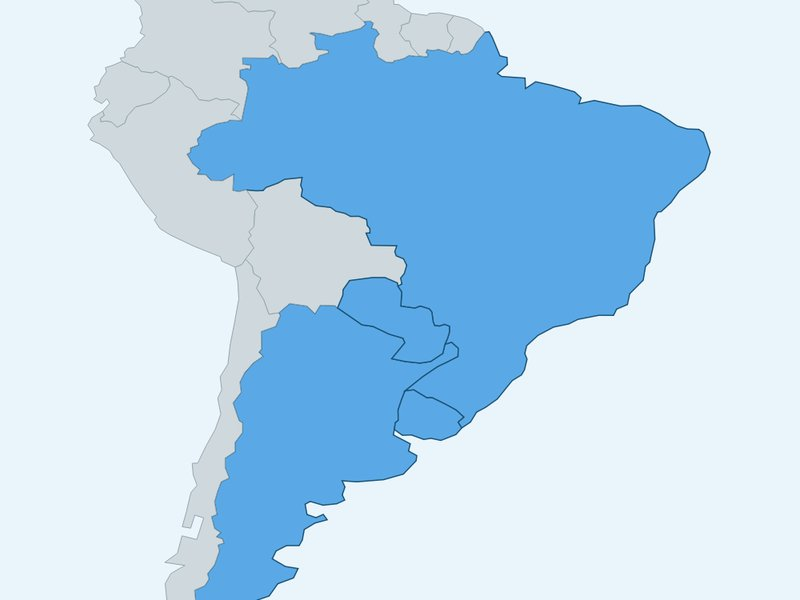
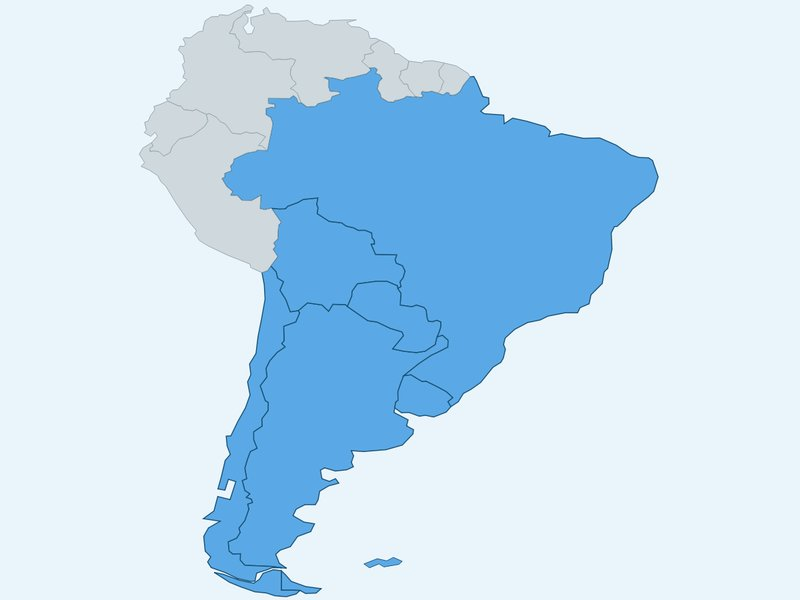
actualizac

Changed region(s): [[0.0938, 0.0, 0.9062, 1.0], [0.4375, 0.93, 0.5, 0.96]]

diff --git a/segundo ciclo/energias_renovables_mercosur/datos.js b/segundo ciclo/energias_renovables_mercosur/datos.js
@@ -449,9 +449,9 @@ var DATOS = {
       titulo: "Trivia: pregunta 6 de 10",
       preguntas: [
         {
-          pregunta: "¿Qué países integran el MERCOSUR en esta actividad?",
+          pregunta: "¿Qué países integran el MERCOSUR?",
           audioPregunta: "assets/audio/p19_q6.mp3",
-          opciones: ["Argentina, Brasil, Paraguay y Uruguay", "Argentina, Chile, Perú y Bolivia", "Brasil, Colombia, Ecuador y Venezuela"],
+          opciones: ["Argentina, Brasil, Paraguay, Uruguay, Chile y Bolivia", "Argentina, Chile, Perú y Bolivia", "Brasil, Colombia, Ecuador y Venezuela"],
           correcta: 0,
           audioOpciones: ["assets/audio/p19_q6o1.mp3", "assets/audio/p19_q6o2.mp3", "assets/audio/p19_q6o3.mp3"],
           imagen: "assets/images/mapa_mercosur_trivia.jpg"

diff --git a/segundo ciclo/energias_renovables_mercosur/index.html b/segundo ciclo/energias_renovables_mercosur/index.html
@@ -428,6 +428,8 @@
   .pais-clickeable.seleccionado { fill: #f5b301; }
   .pais-clickeable.completado { fill: var(--verde-ok); }
   .pais-otro { fill: #cfd8dc; stroke: #90a4ae; stroke-width: 1; }
+  #pais-FLK { fill: var(--ocre-claro); stroke: var(--ocre); stroke-width: 1; pointer-events: none; transition: fill .2s; }
+  #pais-FLK.completado { fill: var(--verde-ok); }
   .mapa-panel-info {
     background: #fff; border-radius: 10px; padding: 14px; margin-top: 10px;
     border: 2px solid var(--ocre-claro); display: none;

diff --git a/segundo ciclo/energias_renovables_mercosur/motor.js b/segundo ciclo/energias_renovables_mercosur/motor.js
@@ -1246,6 +1246,10 @@ function renderMapaSvg(datos, cont) {
       if (!visitados[cod]) {
         visitados[cod] = true;
         el.classList.add("completado");
+        if (cod === "ARG") {
+          var malvinas = mapaWrap.querySelector("#pais-FLK");
+          if (malvinas) malvinas.classList.add("completado");
+        }
       }
       panel.innerHTML = "<img class='mapa-bandera' src='" + info.bandera + "' alt='" + info.nombre + "'>" +
         "<h3>" + info.nombre + "</h3><p>" + info.dato + "</p>" +
